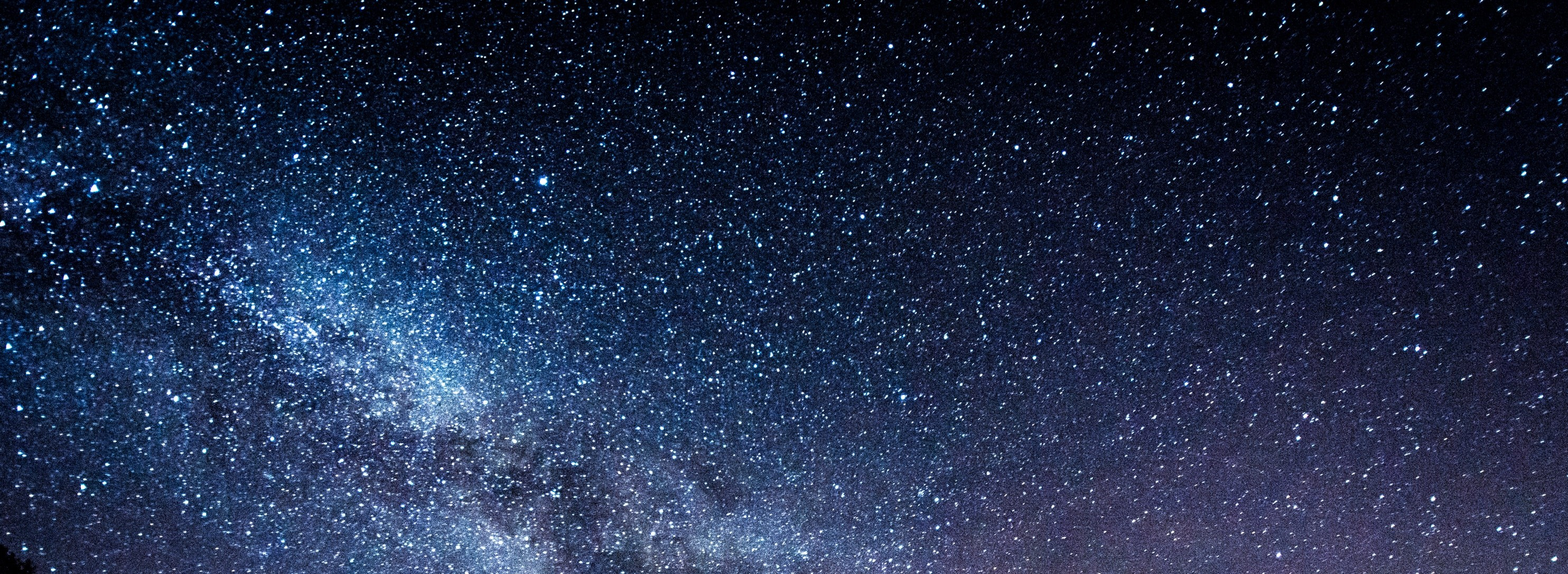
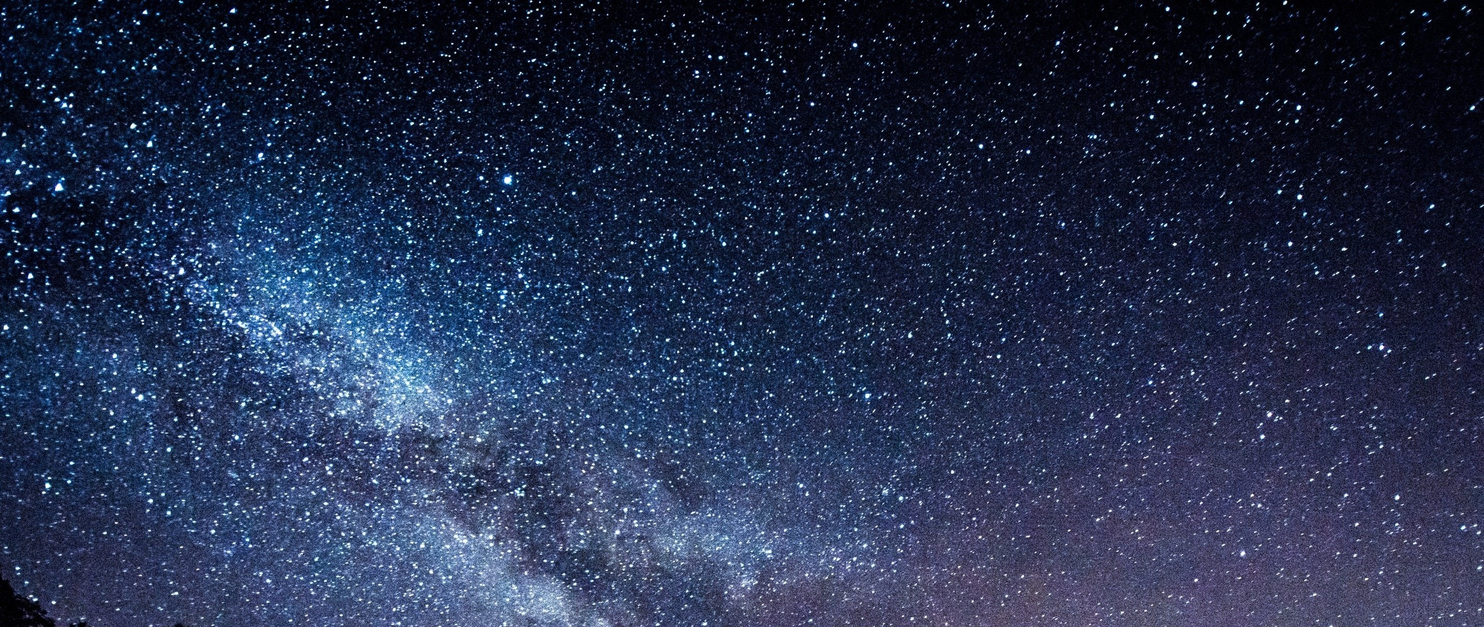
no moves on portfolio, but instead fixed navbar first along with minor performance enhancements via image deletion

diff --git a/index.html b/index.html
@@ -23,9 +23,9 @@
       
       <nav id="transparent">
         <div class="nav-wrapper">
-          <a href="#!" class="brand-logo" id="navlogo">dmb</a>
+          <a href=https://www.linkedin.com/in/david-bedford-027b99190/ class="brand-logo" id="navlogo">dmb</a>
           <a href="#" data-target="mobile-demo" class="sidenav-trigger"><i class="material-icons">menu</i></a>
-          <ul class="right hide-on-med-and-down navcss">
+          <ul class="right hide-on-med-and-down">
             <li><a class="nav-link" href="#home-sec">Home</a></li>
             <li><a class="nav-link" href="#portfolio-sec">Portfolio</a></li>
             <li><a class="nav-link" href="#bio-sec">Bio</a></li>
@@ -35,7 +35,7 @@
         </div>
       </nav>
 
-      <ul class="sidenav navcss" id="mobile-demo">
+      <ul class="sidenav" id="mobile-demo">
         <li><a class="nav-link" href="#home-sec">Home</a></li>
         <li><a class="nav-link" href="#portfolio-sec">Portfolio</a></li>
         <li><a class="nav-link" href="#bio-sec">Bio</a></li>

diff --git a/assets/css/style.css b/assets/css/style.css
@@ -46,13 +46,16 @@ p.bio-paragraph {
   font-family: 'Francois One', sans-serif;
 }
 
-.navcss {
+.nav-link {
   color: rgb(247, 173, 173);
   font-family: 'Francois One', sans-serif;
+  font-weight: bolder;
 }
 
 #navlogo {
   font-family: 'Ultra', serif;
+  padding-left: 2vw;
+  padding-right: 2vw;
 }
 
 /* font-family: 'Anton', sans-serif;
@@ -133,5 +136,11 @@ font-family: 'Ultra', serif; */
 @media only screen and (min-width: 490px) and (max-width: 625px) {
   .parallax-container .parallax img#parallax-main-img {
     bottom: 25vh;
+  }
+} 
+
+@media only screen and (min-width: 400px) and (max-width: 489px) {
+  .parallax-container .parallax img#parallax-main-img {
+    bottom: 5vh;
   }
 } 
